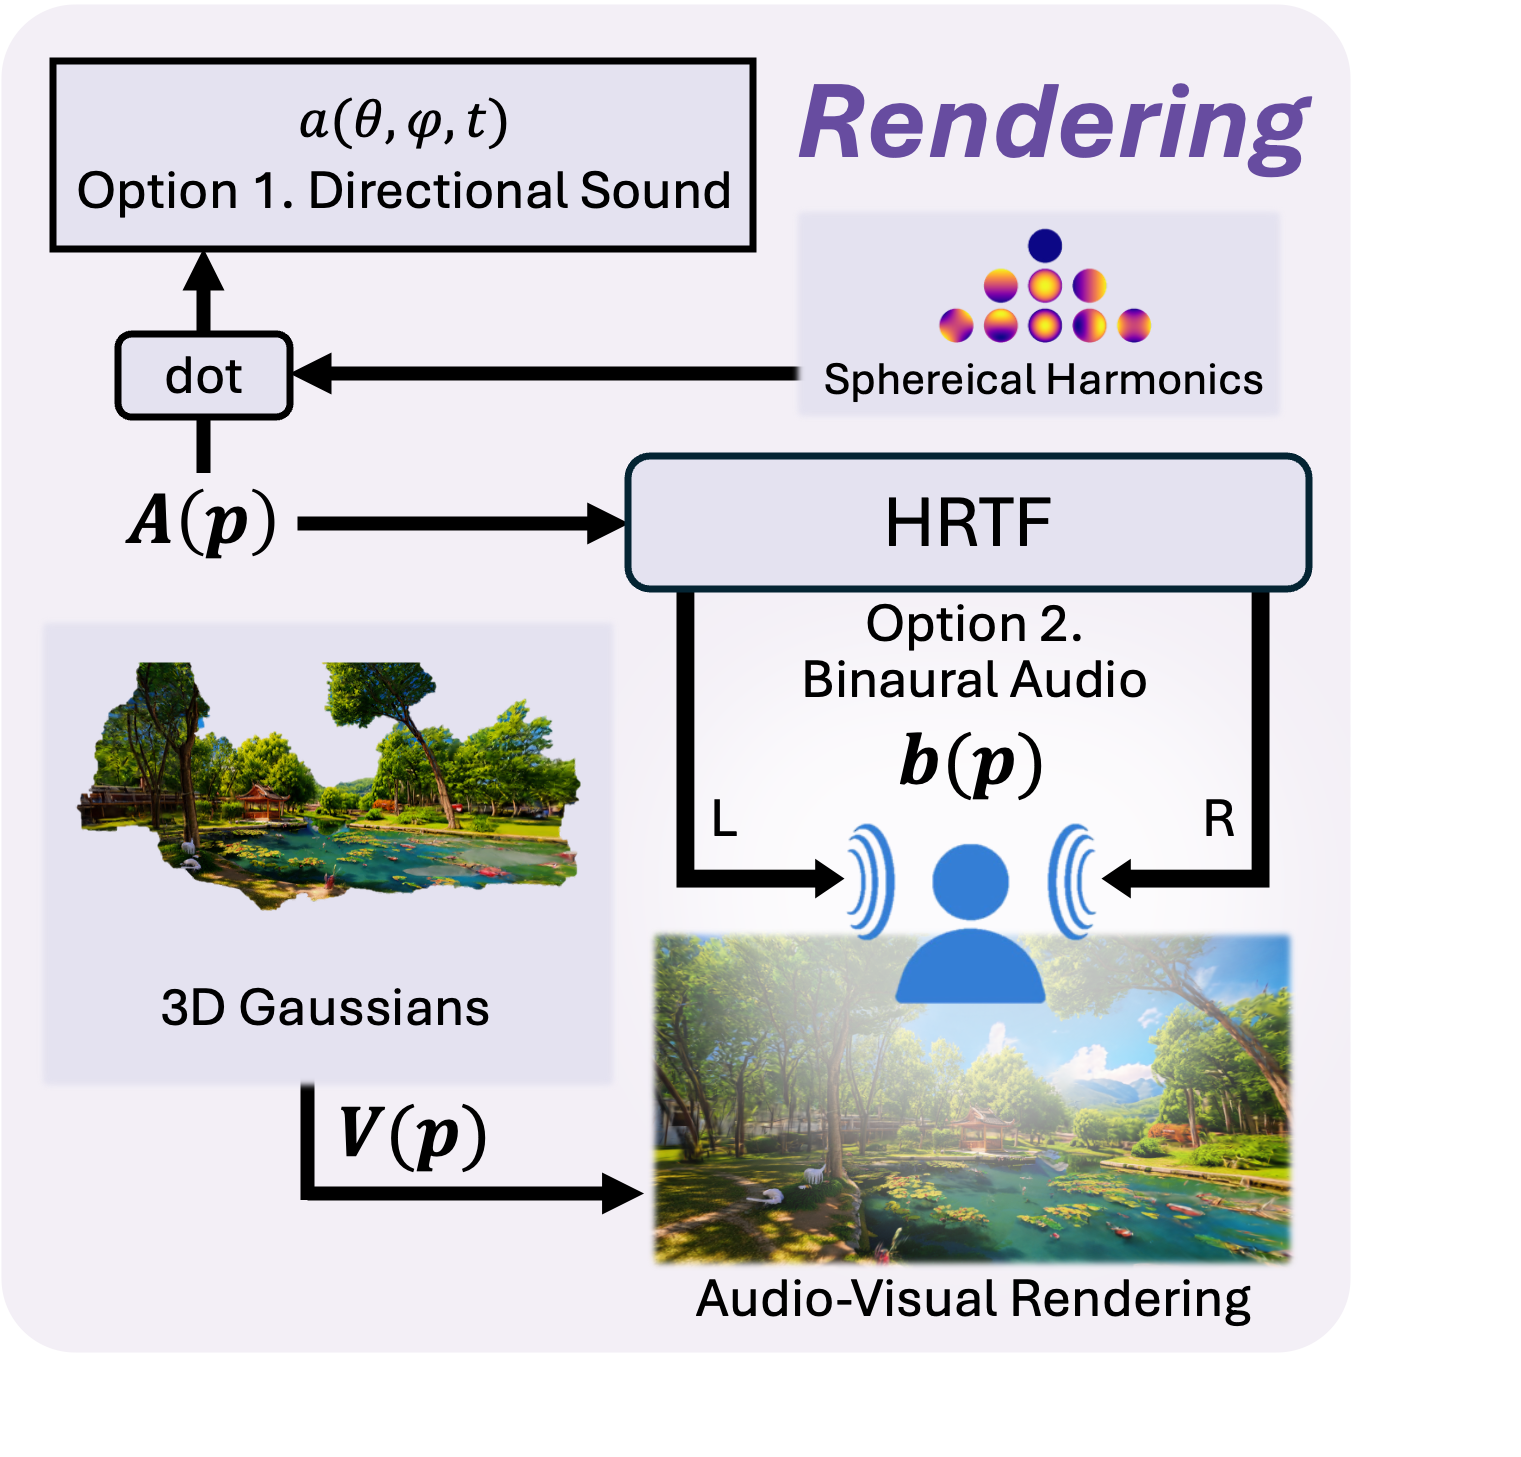
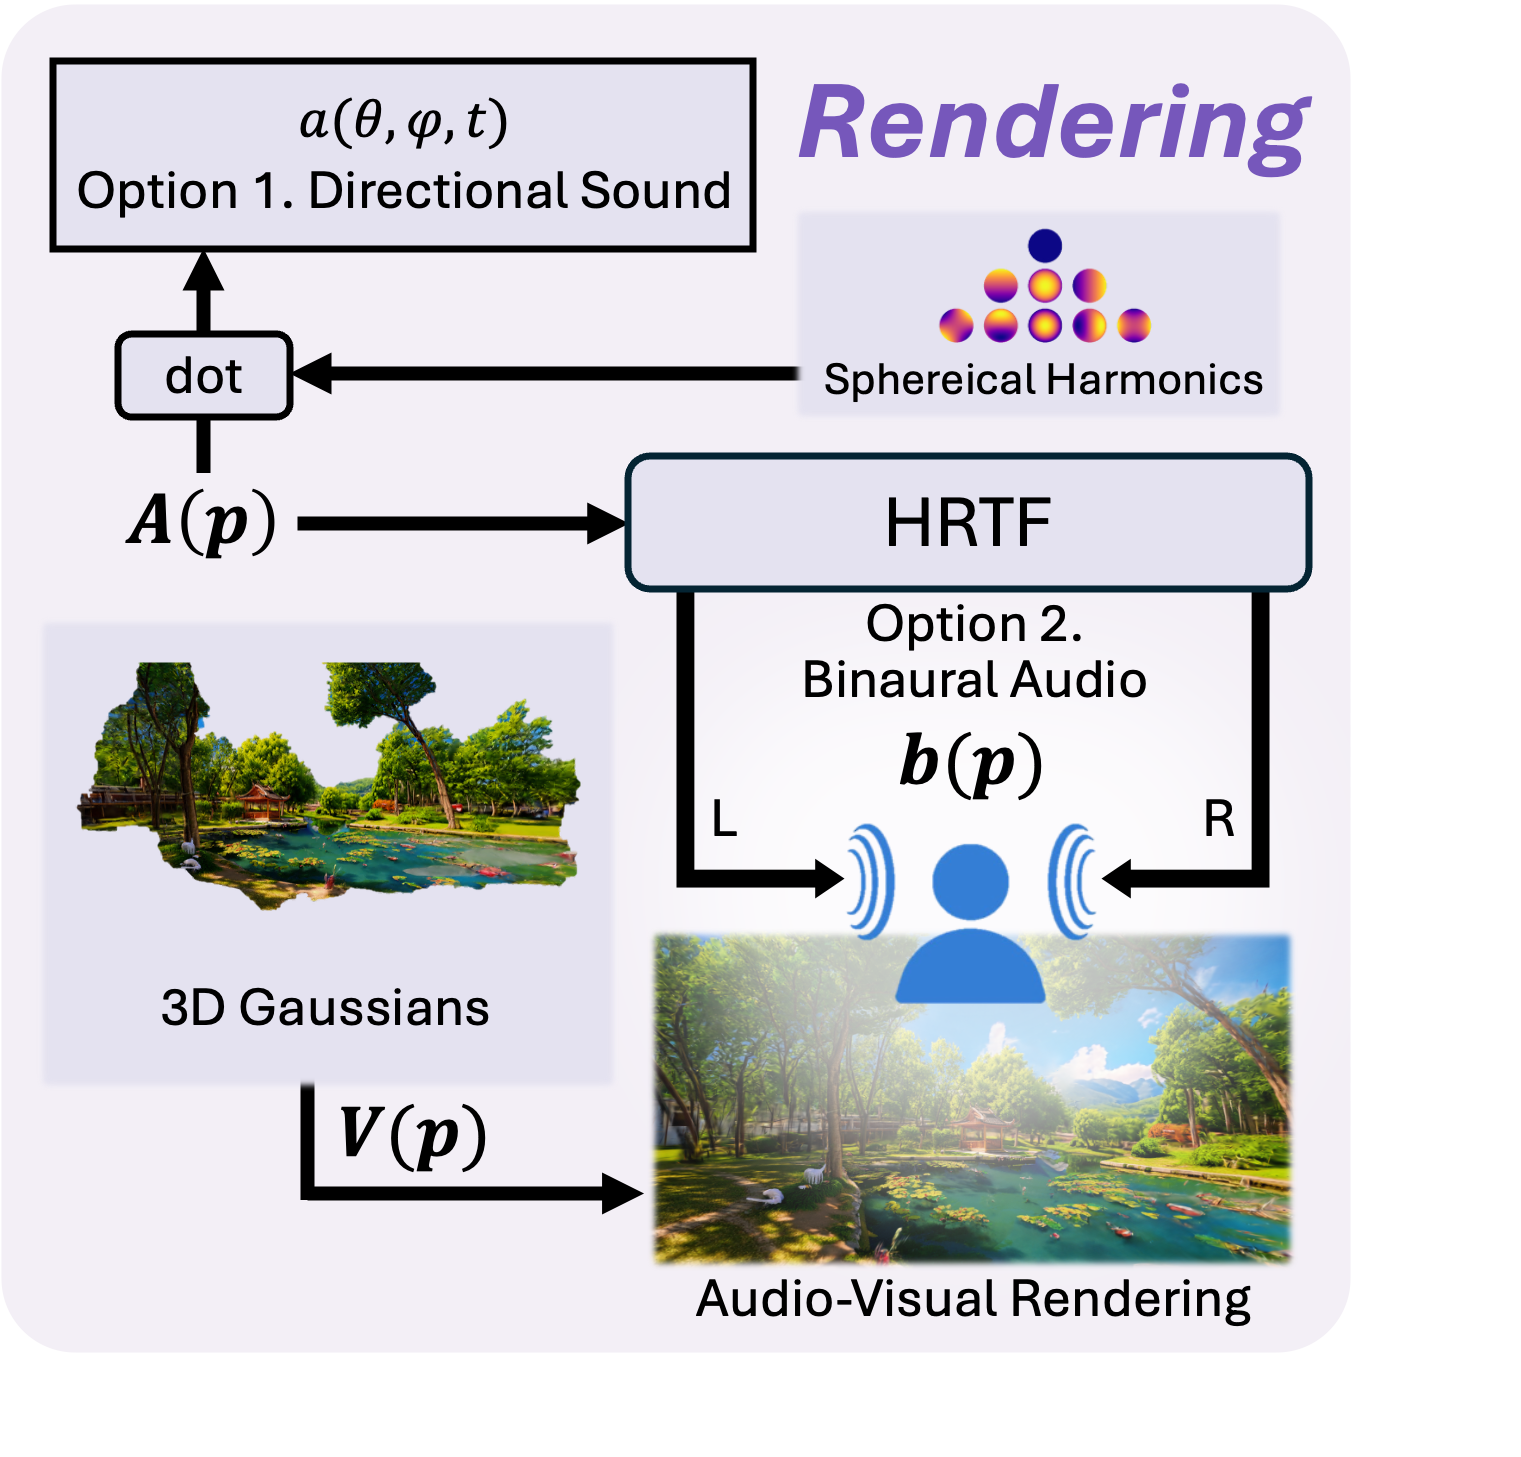
pipeline part 4

Changed region(s): [[0.5253, 0.0618, 0.8652, 0.1235]]

diff --git a/index.html b/index.html
@@ -350,7 +350,7 @@
                 <!-- Left: Text -->
                 <div style="flex: 10; min-width: 300px; font-size: 15px;">
                     <div style="margin-top: 0; margin-bottom: 20px; font-size: 24px; color: #ffffff;">
-                        <span style="color: #c084fc; font-style: italic;">Rendering</span>
+                        <span style="color: #7757bb; font-style: italic;">Rendering</span>
                     </div>
                     
                     <div style="margin-bottom: 20px;">
